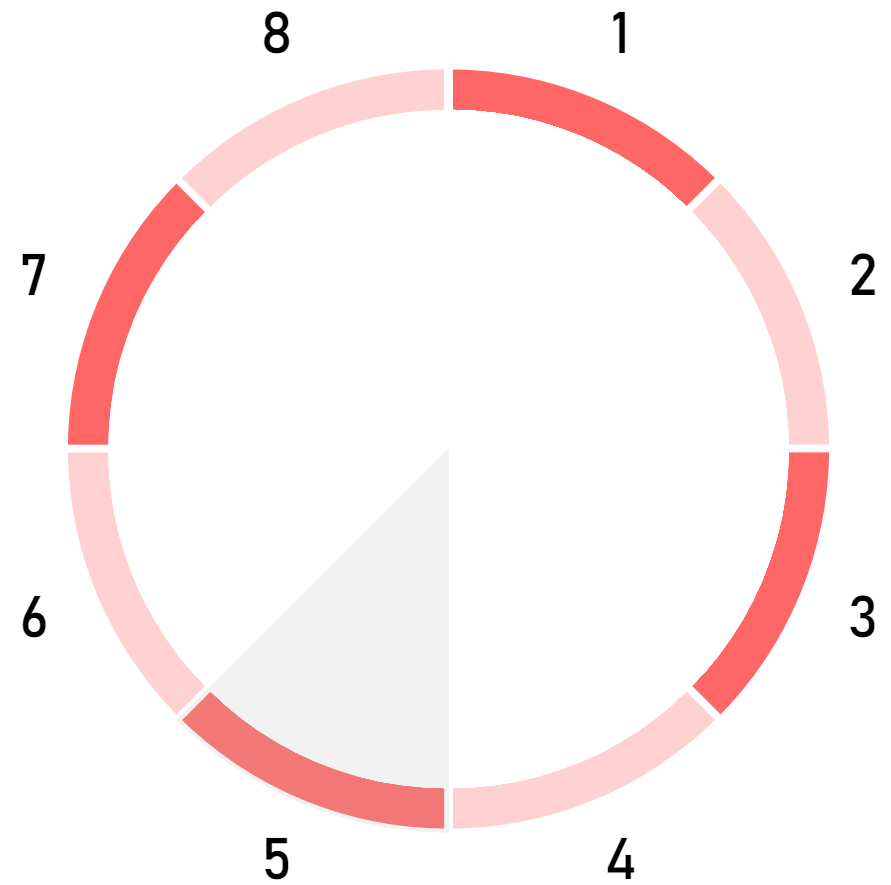
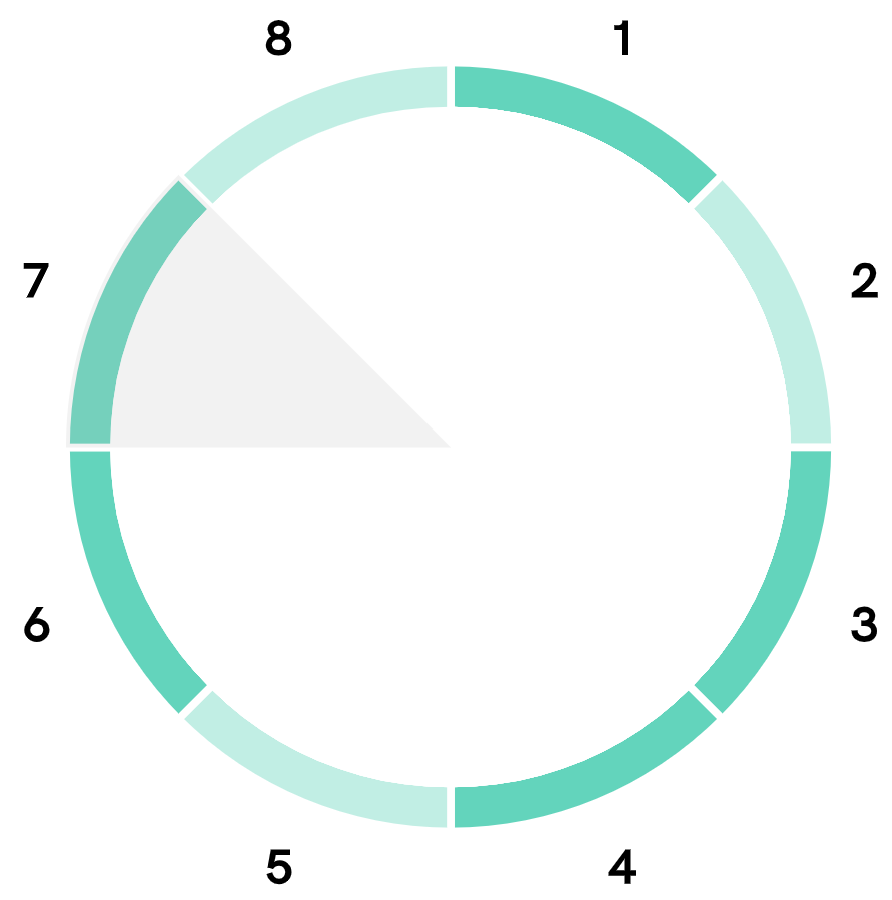
shifting improvement

diff --git a/js/gui.js b/js/gui.js
@@ -58,8 +58,6 @@ let indexA = 0;
 let indexB = 0;
 let actualbarA = 0;
 let actualbarB = 0;
-let proportion_indexA = 0.8;
-let proportion_indexB = 0.8;
 let indexA_1, indexA_2;
 let indexB_1, indexB_2;
 
@@ -766,8 +764,10 @@ function VisualFixTimingB(){
 }
 
 // --------- Functions for the visuals of the shifting ------
-function ShiftingCircle(x, y, onset, pulses, prt, color1, color2) {
+function ShiftingCircle(x, y, onset, pulses, color1, color2) {
   let r2 = 12*w/60;
+  let prt = 0.7;
+
   strokeWeight(w*0.002);
 
   for (let i = 0; i<pulses; i++) {
@@ -782,14 +782,13 @@ function ShiftingCircle(x, y, onset, pulses, prt, color1, color2) {
       fill(color2);
       arc(x, y, r2 * prt, r2*prt, -90+360/pulses*i, -90+360/pulses*(i+1), PIE);
       fill(clr_bg);
-      arc(x, y, prt * r2-1.5*w/60, prt * r2-1.5*w/60, 0, 360, PIE);
+      arc(x, y, 0.7 * r2-1.5*w/60, 0.7 * r2-1.5*w/60, 0, 360, PIE);
     }
   }
 }
 function VisualShift(track){
   let pulses;
   let Shift_binary = [];
-  let proportion;
   let actualbar;
   let x_c;
   let y_c;
@@ -798,14 +797,12 @@ function VisualShift(track){
 
   if (track == 1){
     pulses = pulsesA;
-    proportion = proportion_indexA;
     actualbar = actualbarA;
     x_c = 10*w/60;
     y_c = 47.5*h/60;
     alpha=alpha2;
   }else if (track == 3){
     pulses = pulsesB;
-    proportion = proportion_indexB;
     actualbar = actualbarB;
     x_c = 50*w/60;
     y_c = 47.5*h/60;
@@ -824,7 +821,7 @@ function VisualShift(track){
     for (let i = 0; i < pulses; i++) {
       aux_onsets = Shift_binary.slice(actualbar*pulses, (actualbar+1)*pulses);
     }
-    ShiftingCircle(x_c, y_c, aux_onsets, pulses,proportion, cl3, cl4);
+    ShiftingCircle(x_c, y_c, aux_onsets, pulses, cl3, cl4);
   }
 }
 function GetBinaryShiftedOnset(track){
@@ -882,20 +879,11 @@ function VisualShiftTimingA(){
   if(actualbarA == length){
     actualbarA = 0;
   }
-  proportion_indexA = proportion_indexA - 0.2;
-  if (proportion_indexA < 0.4){
-    proportion_indexA = 0.8;
-  }
 }
 function VisualShiftTimingB(){
   actualbarB++;
   if(actualbarB == length){
     actualbarB = 0;
-  }
-
-  proportion_indexB = proportion_indexB - 0.2;
-  if (proportion_indexB < 0.4){
-    proportion_indexB = 0.8;
   }
 }
 
@@ -921,9 +909,7 @@ function stopTimer(){
     indexB_1 = -1;
     indexB_2 = 0;
     actualbarA = 0;
-    proportion_indexA = 0.8;
     actualbarB = 0;
-    proportion_indexB = 0.8;
     first_cycleA = 0;
     first_cycleB = 0;
   }
